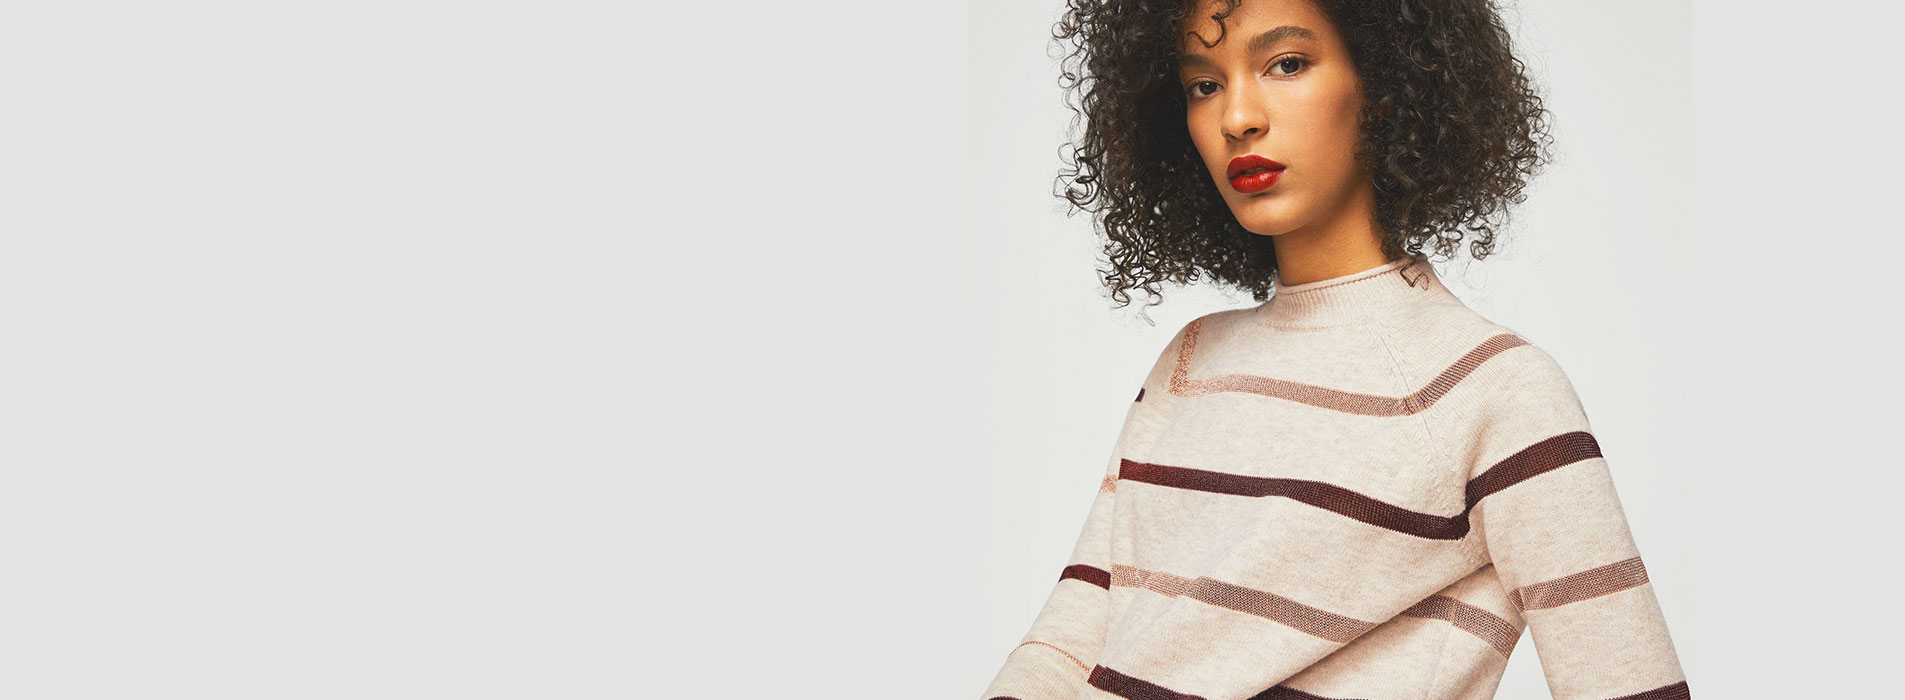
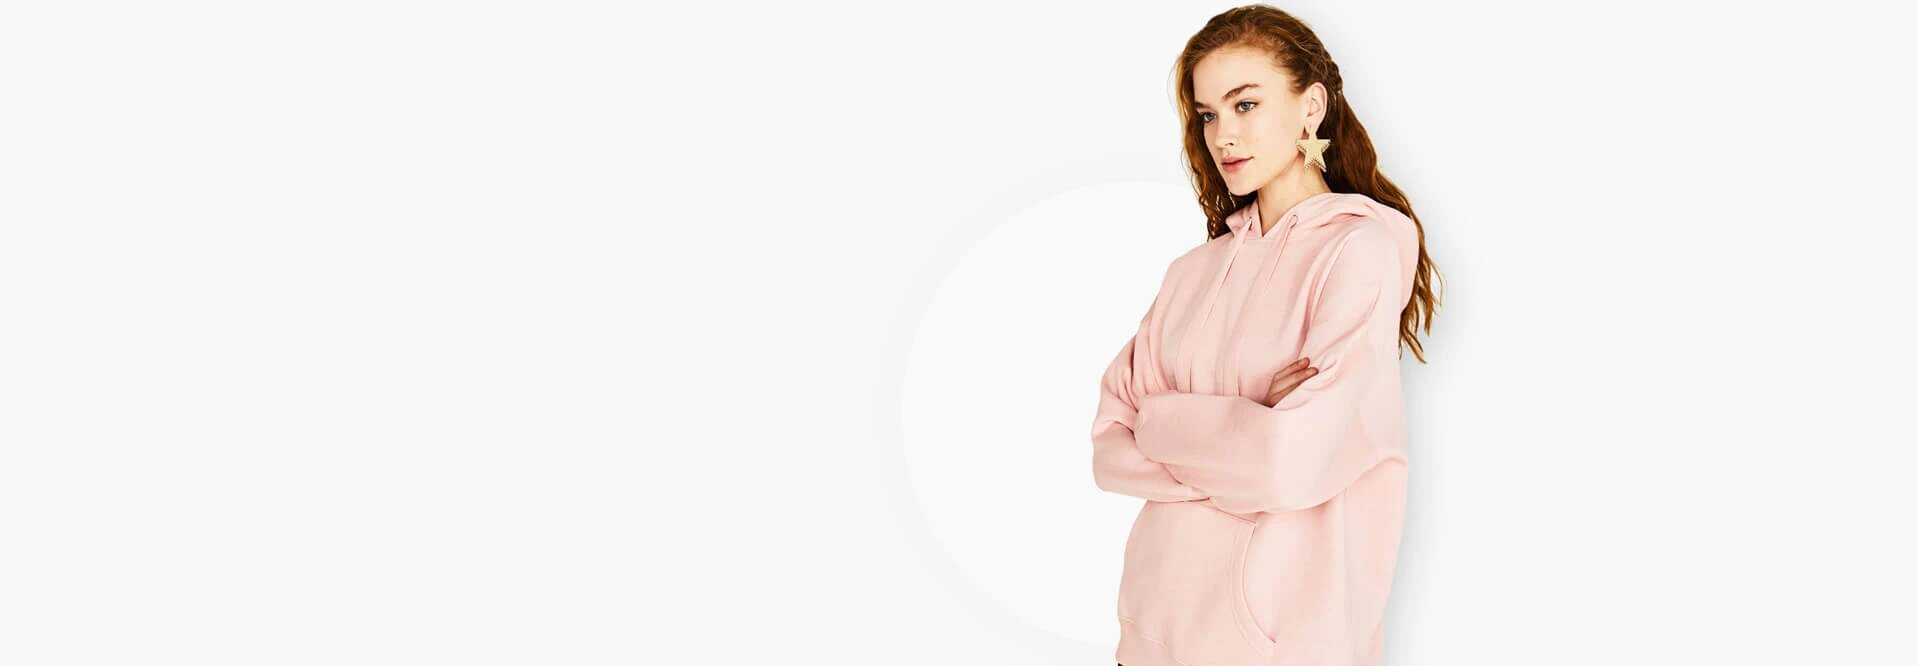
slider addded

Changed region(s): [[0.4955, 0.0, 0.8982, 1.0], [0.4955, 0.3904, 0.5265, 0.4204]]

diff --git a/src/components/HomeBanner/index.js b/src/components/HomeBanner/index.js
@@ -6,31 +6,81 @@
 
 import React from "react";
 
-import BackgroundImage from "../../assets/images/slider_1.jpg";
+import BackgroundImage1 from "../../assets/images/slider_1.jpg";
+import BackgroundImage2 from "../../assets/images/slider_2.jpg";
+import BackgroundImage3 from "../../assets/images/slider_3.jpg";
+import { Carousel } from "react-bootstrap";
 
 function HomeBanner(props) {
   return (
-    <div
-      className="main_slider"
-      style={{
-        backgroundImage: `url(${BackgroundImage})`
-      }}
-      data-aos="fade-up"
-    >
-      <div className="container fill_height">
-        <div className="row align-items-center fill_height">
-          <div className="col">
-            <div className="main_slider_content" data-aos="fade-right">
-              <h6>Spring / Summer Collection 2017</h6>
-              <h1>Get up to 30% Off New Arrivals</h1>
-              <div className="red_button shop_now_button">
-                <a href="#">shop now</a>
+    <Carousel>
+      <Carousel.Item>
+        <div
+          className="d-block w-100 main_slider"
+          style={{
+            backgroundImage: `url(${BackgroundImage1})`,
+          }}
+        >
+          <div className="container fill_height">
+            <div className="row align-items-center fill_height">
+              <div className="col">
+                <div className="main_slider_content" data-aos="fade-right">
+                  <h6>Spring / Summer Collection 2017</h6>
+                  <h1>Get up to 30% Off New Arrivals</h1>
+                  <div className="red_button shop_now_button">
+                    <a href="#">shop now</a>
+                  </div>
+                </div>
               </div>
             </div>
           </div>
         </div>
-      </div>
-    </div>
+      </Carousel.Item>
+      <Carousel.Item>
+        <div
+          className="d-block w-100 main_slider"
+          style={{
+            backgroundImage: `url(${BackgroundImage2})`,
+          }}
+        >
+          <div className="container fill_height">
+            <div className="row align-items-center fill_height">
+              <div className="col">
+                <div className="main_slider_content" data-aos="fade-right">
+                  <h6>Spring / Summer Collection 2017</h6>
+                  <h1>Get up to 30% Off New Arrivals</h1>
+                  <div className="red_button shop_now_button">
+                    <a href="#">shop now</a>
+                  </div>
+                </div>
+              </div>
+            </div>
+          </div>
+        </div>
+      </Carousel.Item>
+      <Carousel.Item>
+        <div
+          className="d-block w-100 main_slider"
+          style={{
+            backgroundImage: `url(${BackgroundImage3})`,
+          }}
+        >
+          <div className="container fill_height">
+            <div className="row align-items-center fill_height">
+              <div className="col">
+                <div className="main_slider_content" data-aos="fade-right">
+                  <h6>Spring / Summer Collection 2017</h6>
+                  <h1>Get up to 30% Off New Arrivals</h1>
+                  <div className="red_button shop_now_button">
+                    <a href="#">shop now</a>
+                  </div>
+                </div>
+              </div>
+            </div>
+          </div>
+        </div>
+      </Carousel.Item>
+    </Carousel>
   );
 }
 

diff --git a/src/assets/css/style.css b/src/assets/css/style.css
@@ -166,14 +166,12 @@ h6::selection {
   font-weight: 500;
   color: #777777 !important;
 }
-:-moz-placeholder /* older Firefox*/
- {
+:-moz-placeholder /* older Firefox*/ {
   font-size: 16px !important;
   font-weight: 500;
   color: #777777 !important;
 }
-::-moz-placeholder /* Firefox 19+ */
- {
+::-moz-placeholder /* Firefox 19+ */ {
   font-size: 16px !important;
   font-weight: 500;
   color: #777777 !important;
@@ -806,11 +804,10 @@ section {
 
 .main_slider {
   width: 100%;
-  height: 700px;
+  height: 500px;
   background-repeat: no-repeat;
   background-size: cover;
   background-position: center center;
-  margin-top: 150px;
 }
 .main_slider_content {
   width: 60%;
@@ -1617,14 +1614,12 @@ span.minus.disabled {
   font-weight: 400;
   color: #b9b4c7 !important;
 }
-#newsletter_email:-moz-placeholder /* older Firefox*/
- {
+#newsletter_email:-moz-placeholder /* older Firefox*/ {
   font-size: 14px !important;
   font-weight: 400;
   color: #b9b4c7 !important;
 }
-#newsletter_email::-moz-placeholder /* Firefox 19+ */
- {
+#newsletter_email::-moz-placeholder /* Firefox 19+ */ {
   font-size: 14px !important;
   font-weight: 400;
   color: #b9b4c7 !important;
